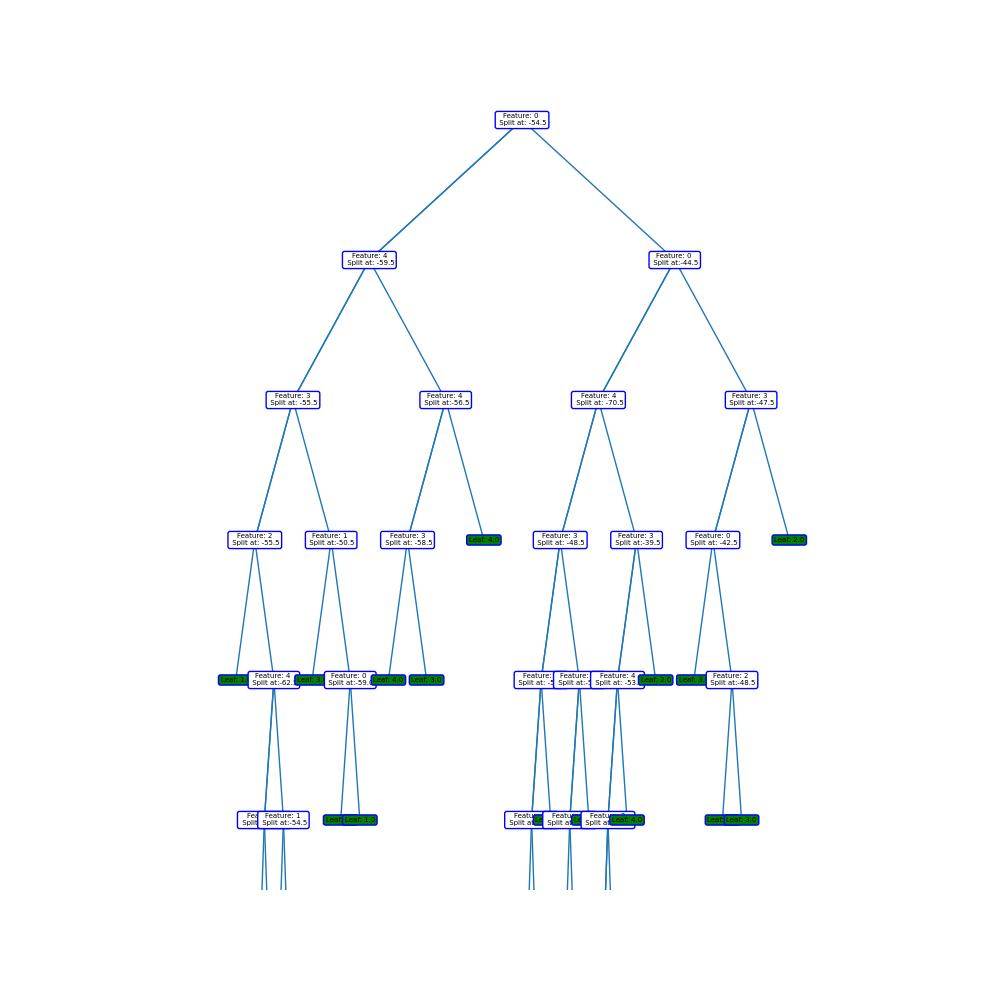
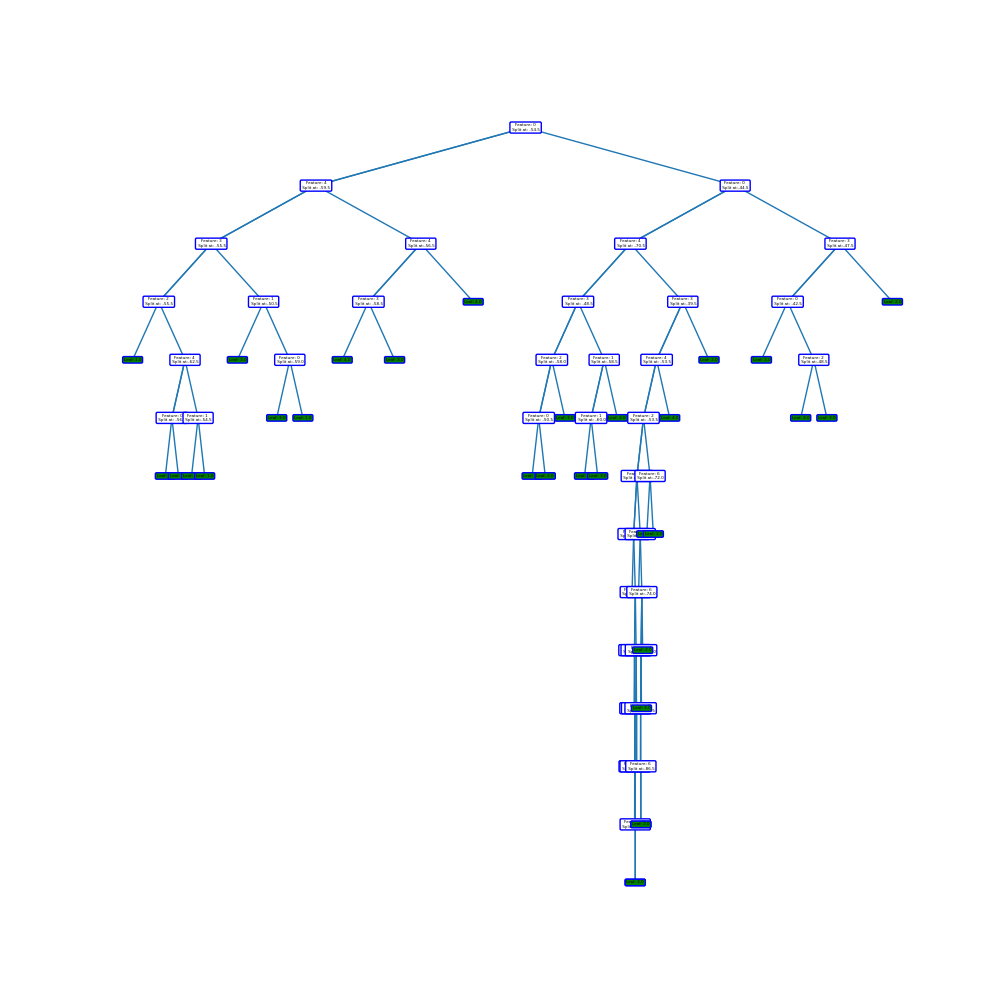
Visualization Zoomed Out

diff --git a/decision_tree_classifier.py b/decision_tree_classifier.py
@@ -85,18 +85,17 @@ class DecisionTreeClassifier():
         grid_x = np.zeros((max_depth+1,np.power(2,max_depth+1)))
         grid_y = np.zeros((max_depth+1,np.power(2,max_depth+1)))
         scale = 5
-        step = scale/max_depth
+        step = 100000*scale/max_depth
         for i in range(max_depth+1):
-            grid_y[i,:] = 0.1*i
+            grid_y[i,:] = 0.05*i
         for j in range(np.power(2,max_depth+1)):
             grid_x[:,j] = (scale)*(j - int(np.power(2,max_depth+1)/2)) + 2
-        
         fig, ax = plt.subplots(figsize=(10,10))
         visualise_decision_tree(node=self.dtree, tree=self, grid = grid, grid_x = grid_x, grid_y = grid_y,x=np.power(2,max_depth), y=max_depth, ax=ax, max_depth=max_depth, max_x=6, max_y=5)
-        ax.margins(0.2, 0.2)  
+        ax.margins(0.01, 0.01)  
         ax.axis('off')
        
-        plt.ylim(0.1*(max_depth-5.5), 0.1*max_depth)
+        # plt.ylim(0.1*(max_depth), 0.1*max_depth)
         plt.savefig(f'Plots/DT_{name}.png')
 
 

diff --git a/visualisation.py b/visualisation.py
@@ -11,7 +11,7 @@ def visualise_decision_tree(node, tree, ax, x, y, grid = [], grid_x = [], grid_y
                 ha="center",
                 va="center",
                 arrowprops=dict(arrowstyle="<-",edgecolor=plt.rcParams["text.color"]),
-                fontsize=5
+                fontsize=3
                 )
     # Empty list for points defining the lines that connect the nodes
     segments = [] 
